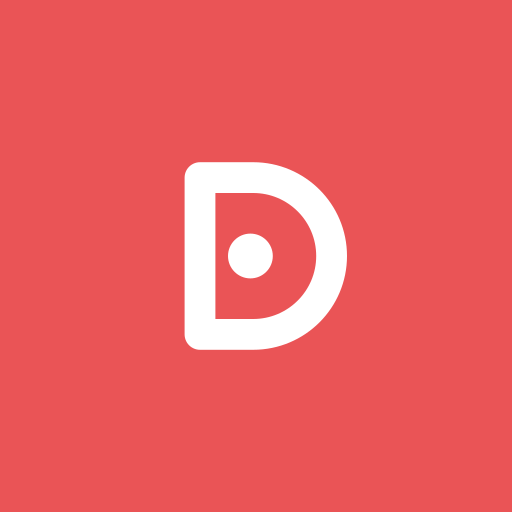
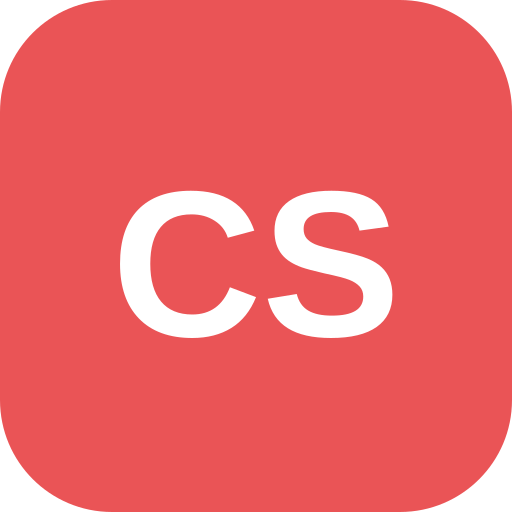
Identidade: tokens da marca Dinamize, selo Beta, e-commerce e versão do build
Claude-Session: https://claude.ai/code/session_01V91UUYjQotwk1eNpXTGNZg

diff --git a/src/components/dcs/Marca.tsx b/src/components/dcs/Marca.tsx
@@ -1,38 +1,59 @@
-/** Marca do Dinamize CS (símbolo + nome). Mesmo desenho de public/icon.svg. */
+/**
+ * Identificação do produto. Sem arquivo oficial do logotipo da Dinamize disponível no projeto, o produto é identificado
+ * apenas pelo nome em texto (não imita nem redesenha a marca Dinamize — Manual de Identidade Visual, usos proibidos).
+ * Quando os arquivos oficiais forem adicionados em public/marca/, substitua Simbolo/Marca por eles (docs/DEPLOYMENT.md).
+ */
+import { SUBTITULO } from "@/lib/versao";
+import { SeloBeta, SeloEcommerce } from "./Ajuda";
+
+/** Monograma do produto (abreviação "CS" em texto), usado no menu recolhido, favicon e ícone do app. */
 export function Simbolo({ className = "h-8 w-8" }: { className?: string }) {
   return (
-    <svg viewBox="0 0 64 64" className={className} aria-hidden="true">
-      <circle cx="32" cy="32" r="32" fill="#EA5456" />
-      <path
-        d="M22 18h9.5a14 14 0 0 1 0 28H22z"
-        fill="none"
-        stroke="#fff"
-        strokeWidth="5.5"
-        strokeLinejoin="round"
-      />
-      <circle cx="31" cy="32" r="4" fill="#fff" />
+    <svg viewBox="0 0 64 64" className={className} role="img" aria-label="Dinamize CS">
+      <rect width="64" height="64" rx="14" fill="#EA5456" />
+      <text
+        x="32"
+        y="42"
+        textAnchor="middle"
+        fontFamily="'Circular Std', Inter, Arial, sans-serif"
+        fontWeight="700"
+        fontSize="26"
+        fill="#FFFFFF"
+      >
+        CS
+      </text>
     </svg>
   );
 }
 
 export function Marca({
   compacta,
-  sub = "Inteligência de contas",
+  sub = SUBTITULO,
+  escuro,
+  semSegmento,
 }: {
   compacta?: boolean;
   sub?: string;
+  escuro?: boolean;
+  semSegmento?: boolean;
 }) {
+  if (compacta) return <Simbolo className="h-8 w-8 shrink-0" />;
   return (
-    <span className="flex min-w-0 items-center gap-2.5">
-      <Simbolo className="h-8 w-8 shrink-0" />
-      {!compacta && (
-        <span className="min-w-0 leading-tight">
-          <span className="block truncate text-[15px] font-semibold text-foreground">
-            Dinamize CS
-          </span>
-          <span className="block truncate text-xs text-muted-foreground">{sub}</span>
+    <span className="flex min-w-0 flex-col leading-tight">
+      <span className="flex items-center gap-1.5">
+        <span
+          className={`truncate text-[17px] font-bold tracking-tight ${escuro ? "text-white" : "text-[var(--brand-black)]"}`}
+        >
+          Dinamize <span className="text-[var(--brand)]">CS</span>
         </span>
-      )}
+        <SeloBeta escuro={escuro} />
+      </span>
+      <span
+        className={`block truncate text-xs ${escuro ? "text-white/70" : "text-muted-foreground"}`}
+      >
+        {sub}
+      </span>
+      {!semSegmento && <SeloEcommerce escuro={escuro} />}
     </span>
   );
 }

diff --git a/src/styles.css b/src/styles.css
@@ -5,8 +5,8 @@
 @custom-variant dark (&:is(.dark *));
 
 @theme inline {
-  --font-sans: "Inter", ui-sans-serif, system-ui, sans-serif;
-  --font-display: "Inter", ui-sans-serif, system-ui, sans-serif;
+  --font-sans: "Circular Std", "Inter", ui-sans-serif, system-ui, sans-serif;
+  --font-display: "Circular Std", "Inter", ui-sans-serif, system-ui, sans-serif;
   --radius-sm: calc(var(--radius) - 4px);
   --radius-md: calc(var(--radius) - 2px);
   --radius-lg: var(--radius);
@@ -21,6 +21,8 @@
   --color-popover: var(--popover);
   --color-popover-foreground: var(--popover-foreground);
   --color-primary: var(--primary);
+  --color-brand: var(--brand);
+  --color-brand-black: var(--brand-black);
   --color-primary-foreground: var(--primary-foreground);
   --color-button-disabled: var(--button-disabled);
   --color-button-disabled-foreground: var(--button-disabled-foreground);
@@ -57,24 +59,28 @@
 }
 
 :root {
-  /* Dinamize CS — design system (tema claro único). Cores da marca em hex para conferência direta. */
+  /* Dinamize CS — design system (tema claro único), alinhado ao Manual de Identidade Visual da Dinamize (D35):
+     vermelho institucional #EA5456 (Pantone 7625 C) = identidade (--brand); preto institucional #3D3D3B = texto.
+     Ações com texto branco usam #D13F41 (contraste 4,67:1, AA), pois #EA5456 com branco tem 3,56:1. */
+  --brand: #EA5456;
+  --brand-black: #3D3D3B;
   color-scheme: light;
   --area-rosa: #DB2777;
   --qr-surface: #FFFFFF;
   --radius: 0.625rem;
   --background: #F5F6F8;
-  --foreground: #1F2430;
+  --foreground: #3D3D3B;
   --card: #FFFFFF;
-  --card-foreground: #1F2430;
+  --card-foreground: #3D3D3B;
   --popover: #FFFFFF;
-  --popover-foreground: #1F2430;
-  --primary: #EA5456;
-  --primary-hover: #D13F41;
+  --popover-foreground: #3D3D3B;
+  --primary: #D13F41;
+  --primary-hover: #B8363A;
   --primary-foreground: #FFFFFF;
   --button-disabled: #F1F2F4;
   --button-disabled-foreground: #9CA3AF;
   --secondary: #F3F4F6;
-  --secondary-foreground: #1F2430;
+  --secondary-foreground: #3D3D3B;
   --muted: #F3F4F6;
   --muted-foreground: #6B7280;
   --accent: #FDECEC;
@@ -87,12 +93,12 @@
   --surface: #FFFFFF;
   --surface-2: #F9FAFB;
   --ember: #F59E0B;
-  --ember-foreground: #1F2430;
+  --ember-foreground: #3D3D3B;
   --success: #16A34A;
   --warning: #D97706;
   --info: #2563EB;
   --sidebar: #FFFFFF;
-  --sidebar-foreground: #1F2430;
+  --sidebar-foreground: #3D3D3B;
   --sidebar-primary: #EA5456;
   --sidebar-primary-foreground: #FFFFFF;
   --sidebar-accent: #FDECEC;

diff --git a/vite.config.ts b/vite.config.ts
@@ -5,8 +5,25 @@
 //     React/TanStack dedupe, error logger plugins, and sandbox detection (port/host/strictPort).
 // You can pass additional config via defineConfig({ vite: { ... }, etc... }) if needed.
 import { defineConfig } from "@lovable.dev/vite-tanstack-config";
+import { execSync } from "node:child_process";
+
+// Identificação do build (Sobre o sistema). O commit vem do git quando disponível; senão, de variáveis do ambiente de build.
+function commit(): string {
+  try {
+    return execSync("git rev-parse --short HEAD", { stdio: ["ignore", "pipe", "ignore"] }).toString().trim();
+  } catch {
+    return (process.env["COMMIT_SHA"] ?? process.env["GITHUB_SHA"] ?? process.env["CF_PAGES_COMMIT_SHA"] ?? "").slice(0, 7) || "indisponível";
+  }
+}
+const BUILD_DATE = new Date().toISOString();
 
 export default defineConfig({
+  vite: {
+    define: {
+      __DCS_COMMIT__: JSON.stringify(commit()),
+      __DCS_BUILD__: JSON.stringify(BUILD_DATE),
+    },
+  },
   tanstackStart: {
     // Redirect TanStack Start's bundled server entry to src/server.ts (our SSR error wrapper).
     // nitro/vite builds from this

diff --git a/src/lib/versao.ts b/src/lib/versao.ts
@@ -1,0 +1,14 @@
+/** Versão do Dinamize CS (Sobre o sistema, feedback e onboarding). Atualize VERSAO e DATA_VERSAO a cada liberação. */
+declare const __DCS_COMMIT__: string;
+declare const __DCS_BUILD__: string;
+
+export const PRODUTO = "Dinamize CS";
+export const NOME_COMPLETO = "Dinamize CS — Plano de Ação e Diagnóstico de Contas";
+export const SUBTITULO = "Diagnóstico e inteligência de contas";
+export const SEGMENTO = "Exclusivo para e-commerces";
+export const VERSAO = "Beta 1.0";
+export const DATA_VERSAO = "2026-11-18";
+export const COMMIT = typeof __DCS_COMMIT__ === "string" ? __DCS_COMMIT__ : "indisponível";
+export const BUILD = typeof __DCS_BUILD__ === "string" ? __DCS_BUILD__ : "desenvolvimento";
+/** Identificador curto do build: data/hora UTC da compilação + commit. */
+export const BUILD_ID = `${BUILD.replace(/[-:]/g, "").slice(0, 13)}-${COMMIT}`;

diff --git a/src/components/dcs/graficos.tsx b/src/components/dcs/graficos.tsx
@@ -56,7 +56,7 @@ export function BarrasSemanais<K extends string>({
           <Legend
             iconType="circle"
             iconSize={8}
-            wrapperStyle={{ fontSize: 12, color: "#1F2430" }}
+            wrapperStyle={{ fontSize: 12, color: "#3D3D3B" }}
           />
           {series.map((s) => (
             <Bar
